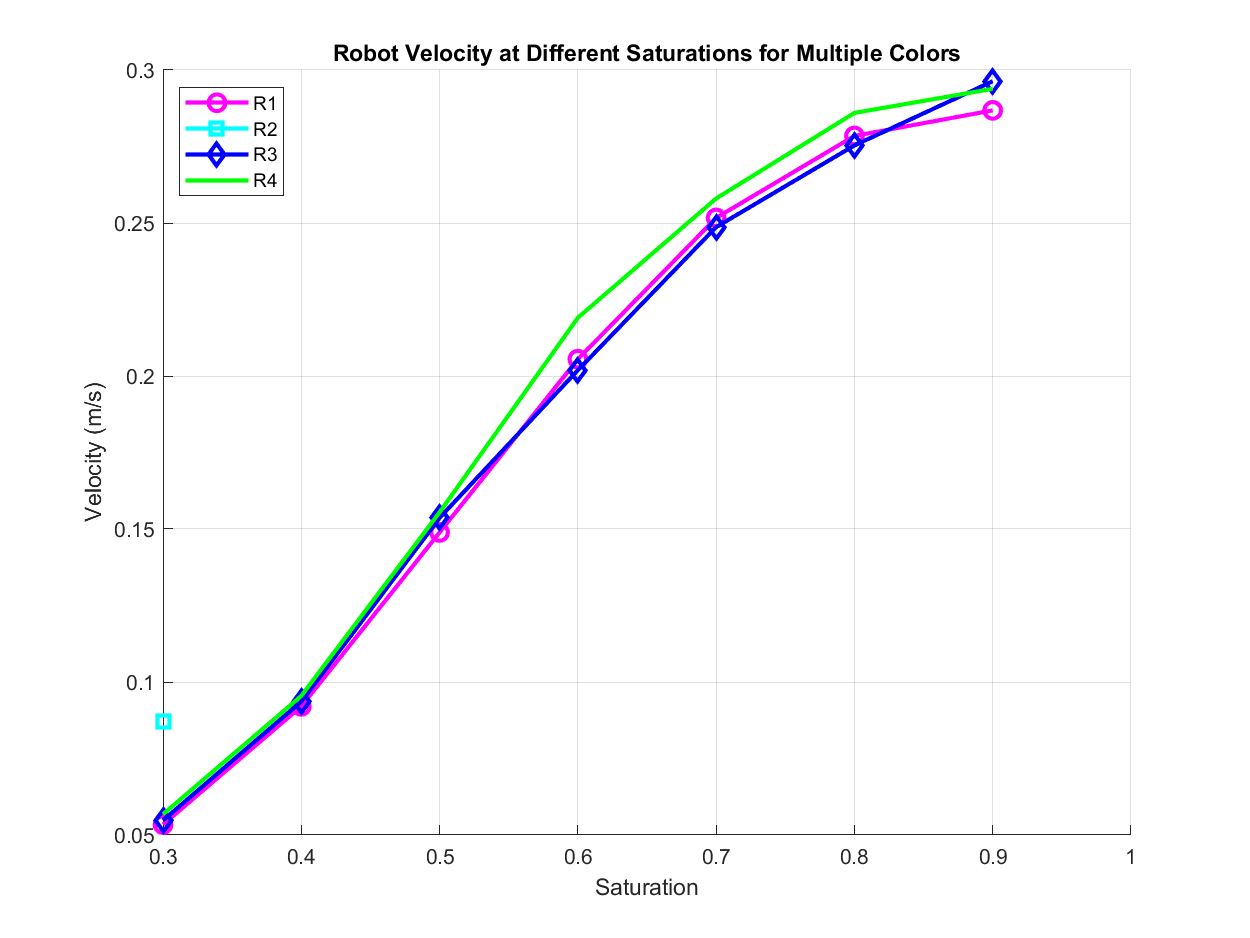
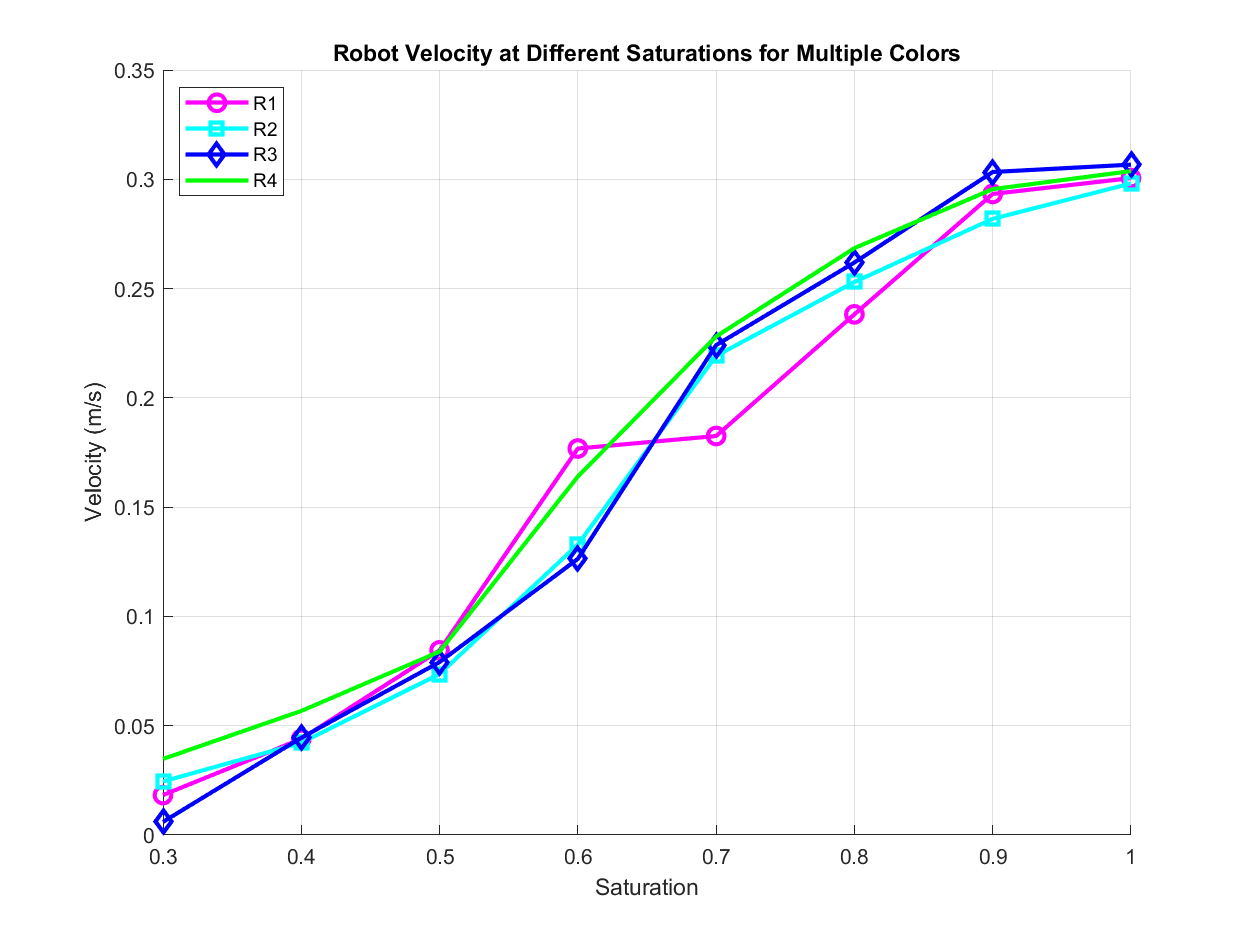
Updated FIelds

diff --git a/trunk/robot_racer_july_tuning_nns/multirobot_racing_plotter.m b/trunk/robot_racer_july_tuning_nns/multirobot_racing_plotter.m
@@ -47,7 +47,7 @@ for file_idx = 1:length(run_files)
         diff_pose = sqrt(diff(current_pose(:,1)).^2 + diff(current_pose(:,2)).^2) * 10;
         
         % Moving average to smooth the data
-        mov_avg_pts = 10;
+        mov_avg_pts = 3;
         mov_avg_diff = movmean(diff_pose, mov_avg_pts);
         
         % Plot the smoothed velocity trace for this pose
